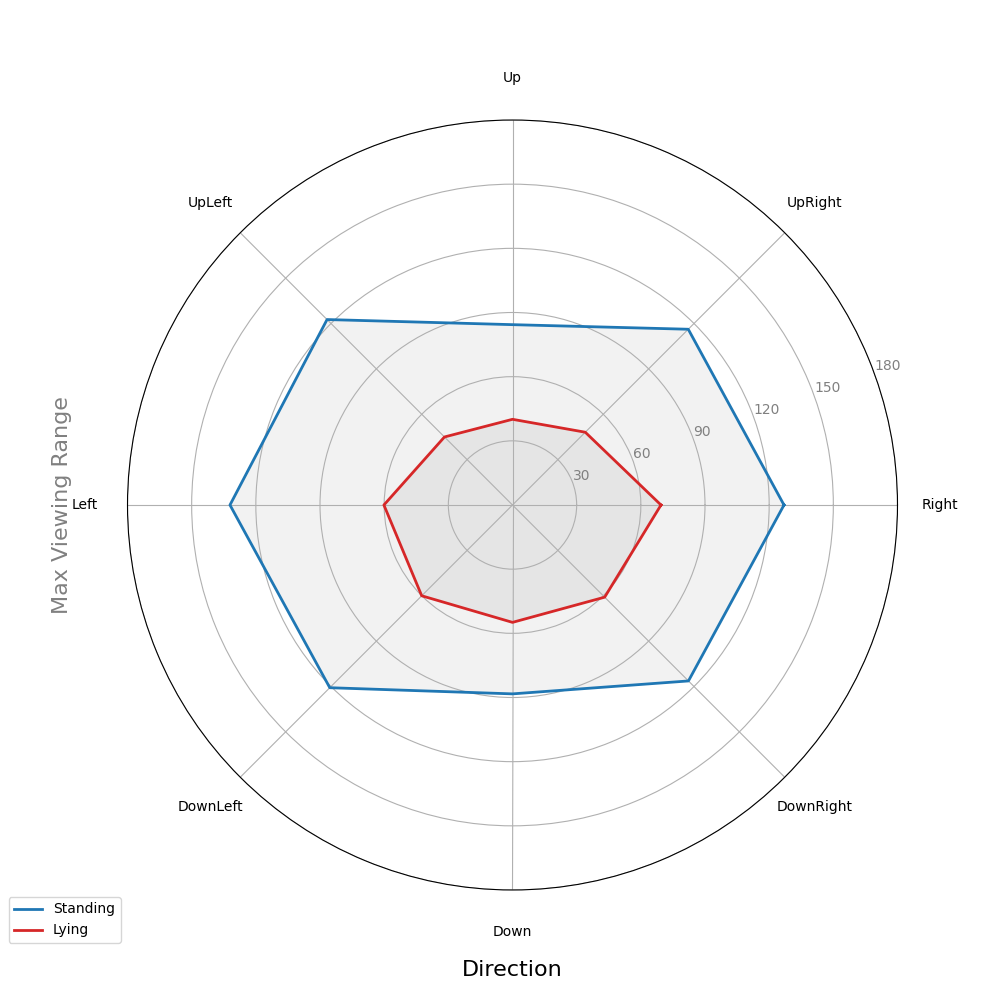
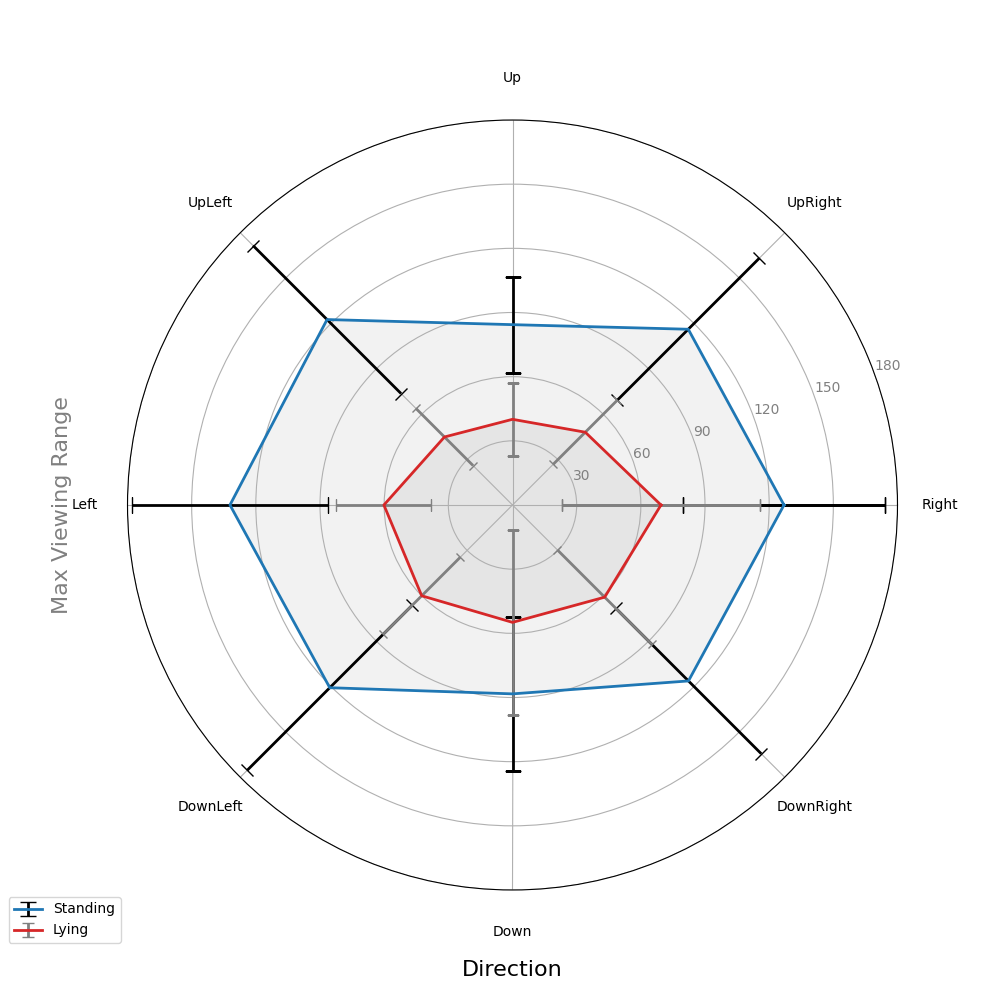
change T1 fig

diff --git a/T1_DrawFig.py b/T1_DrawFig.py
@@ -182,6 +182,8 @@ plt.ylim(0, 180)
 # Plot the data
 i = 0
 colors = ["tab:blue", "tab:red"]
+ecolors = ["black", "grey"]
+ecapsize = [6, 4]
 for pos in Postures:
     values = list(range_data[pos].values())
     values += values[:1]
@@ -194,9 +196,9 @@ for pos in Postures:
         linewidth=2,
         linestyle="solid",
         label=pos,
-        # yerr=std_values,
-        # ecolor=colors[i],
-        # capsize=4,
+        yerr=std_values,
+        ecolor=ecolors[i],
+        capsize=ecapsize[i],
     )
     ax.fill(angles, values, "k", alpha=0.05)
     i += 1
